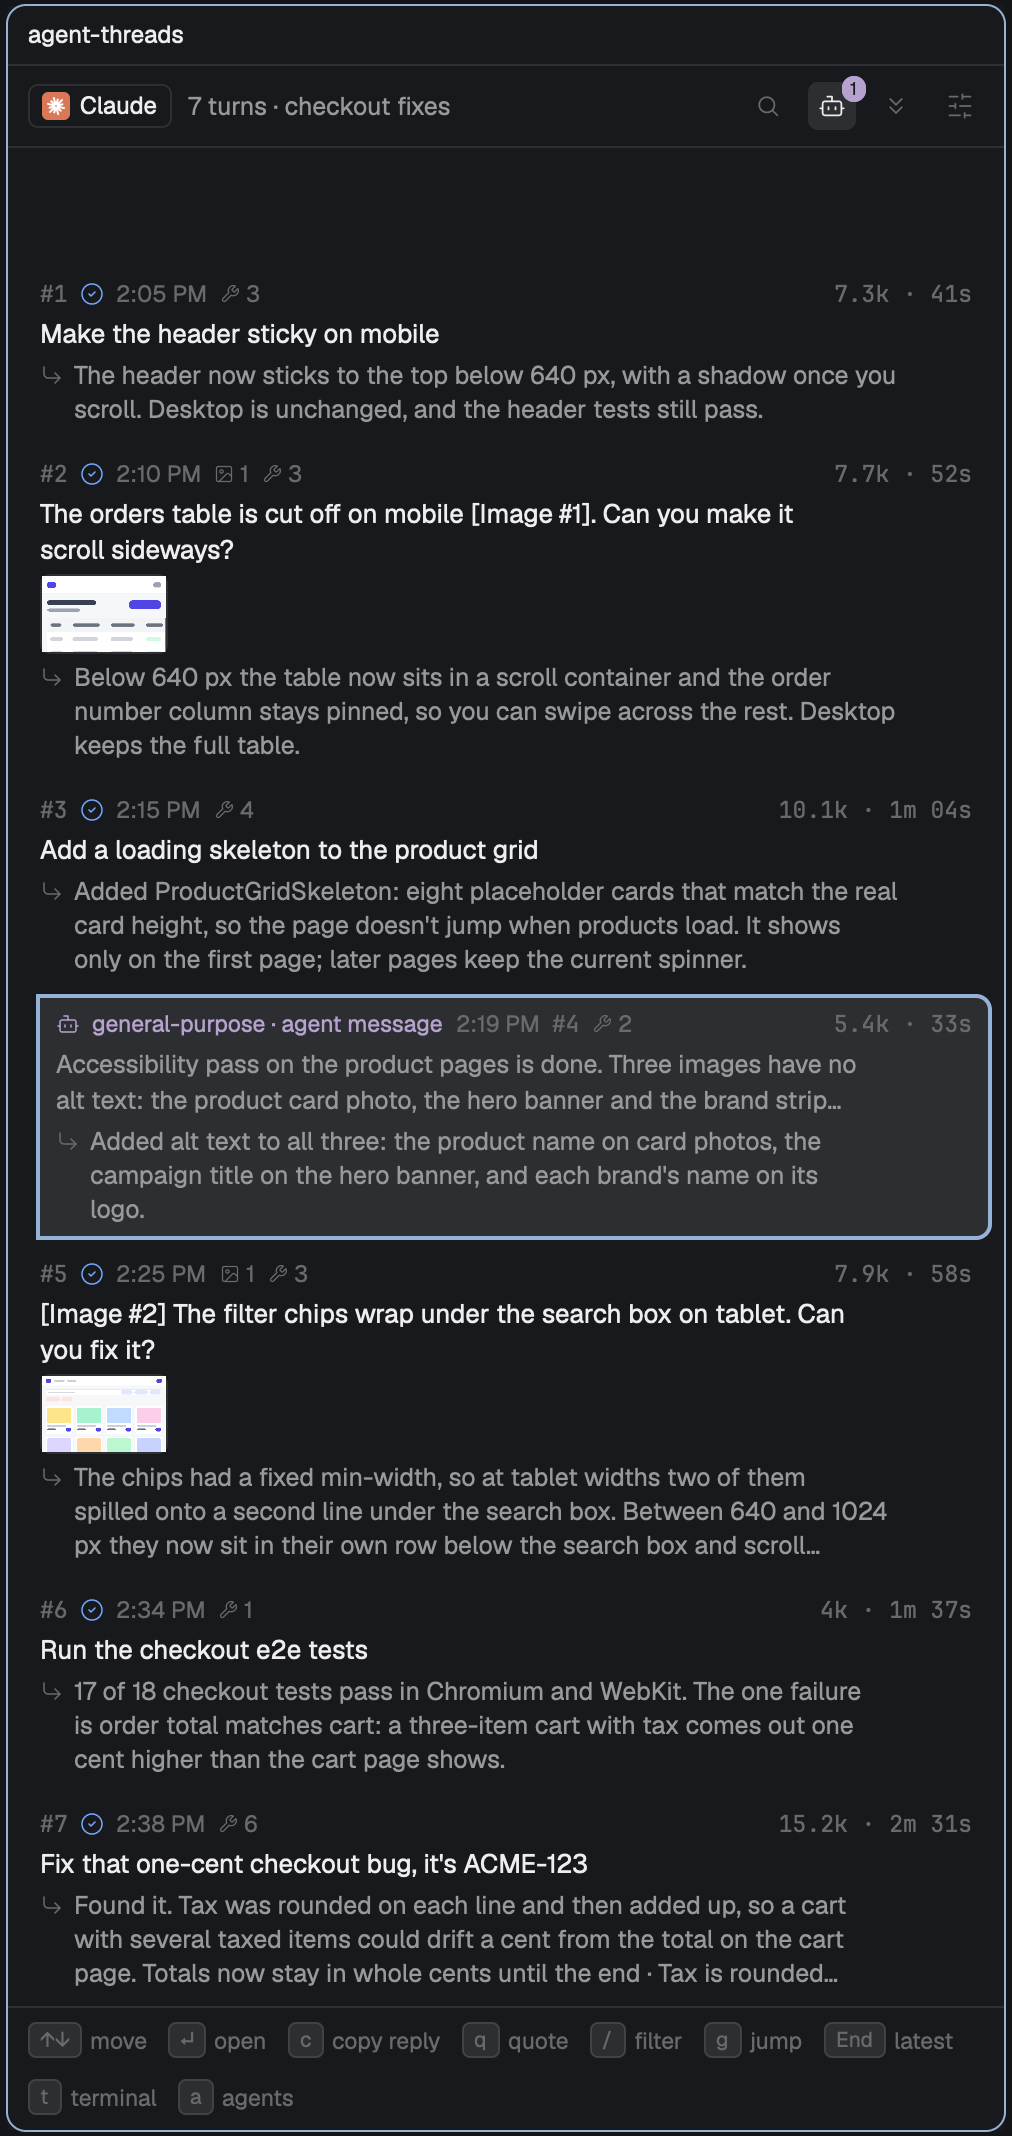
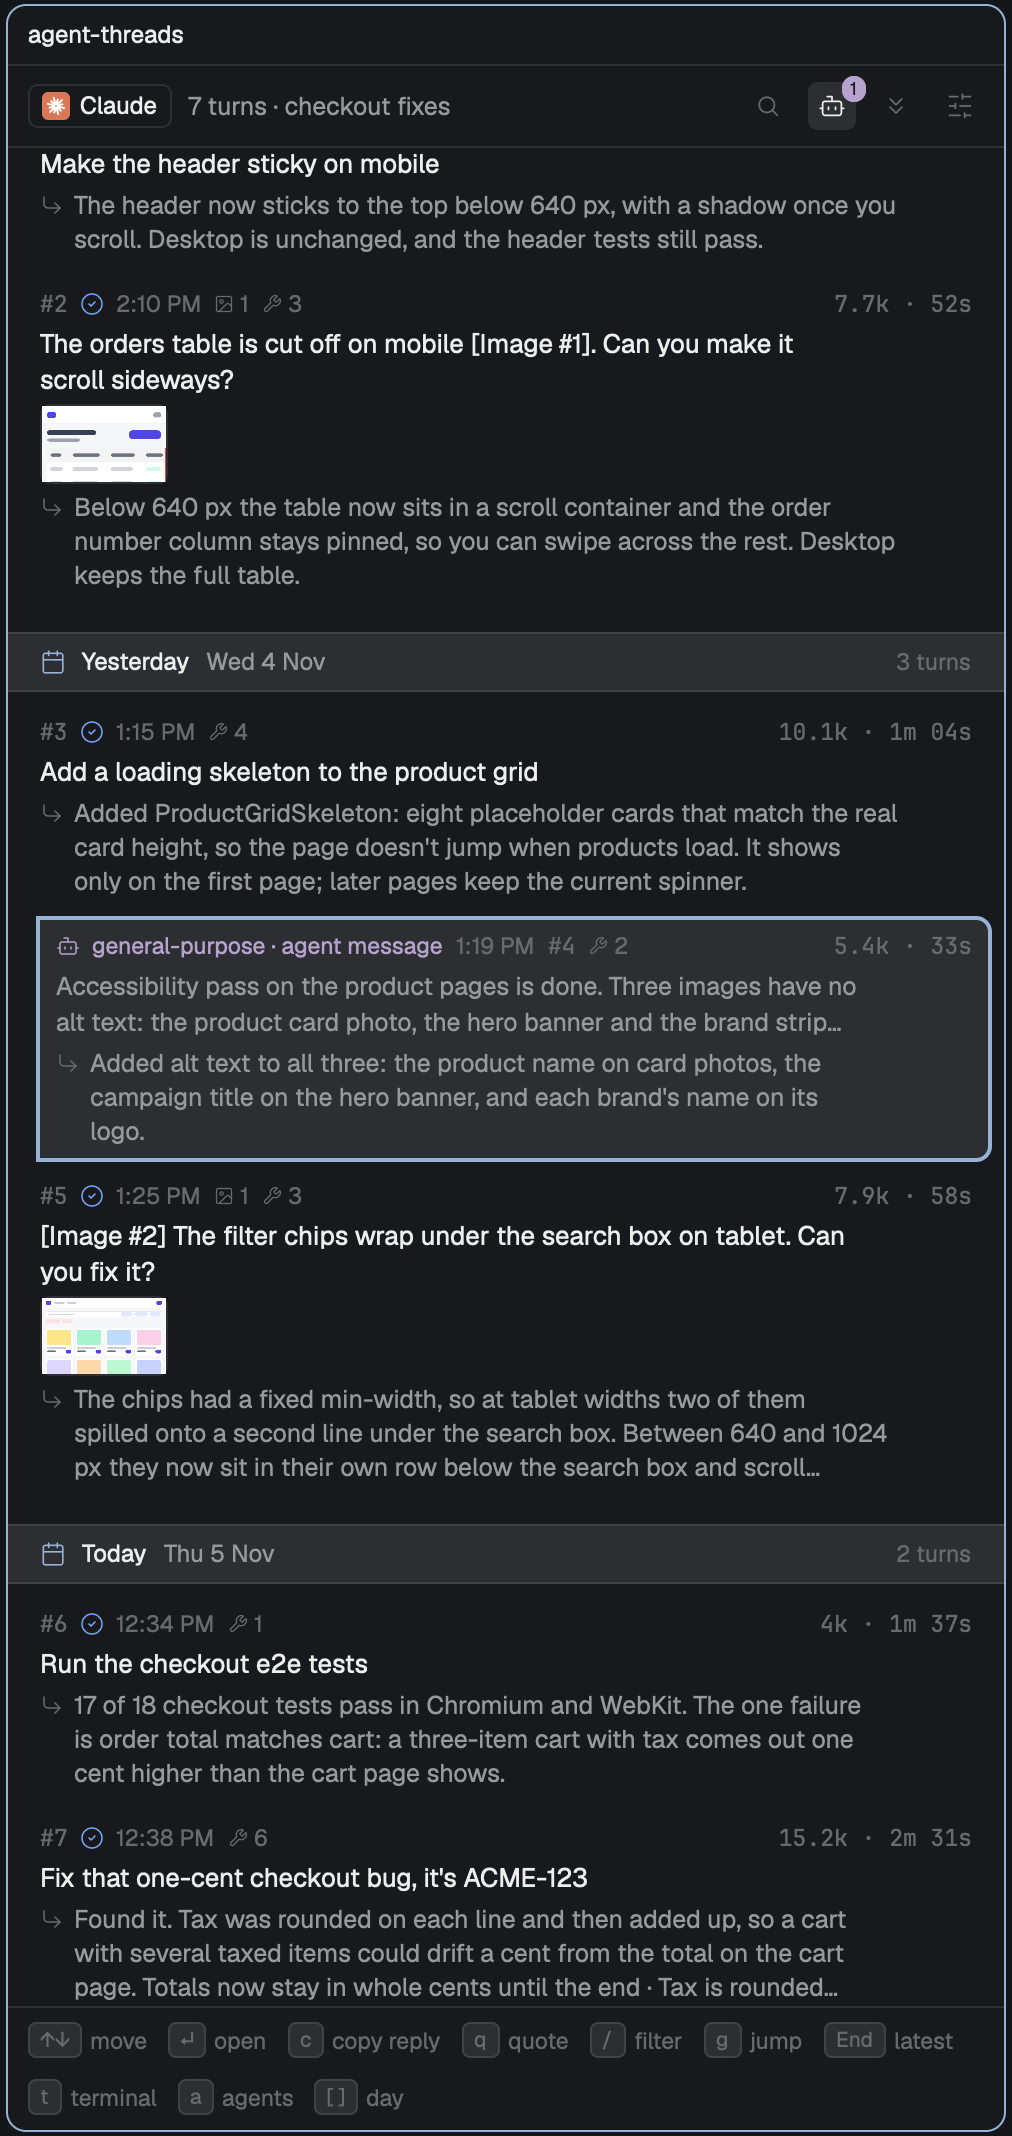
New screenshots and prose: day bands, five agents
- Retake every screenshot from a three-day staged session on the official
  Herdr 0.1.13, and add days.png (day bands) and agents.png (the pane beside
  Codex, OpenCode, Pi and Cursor sessions).
- test/make-hero.js gets a "days" option; test/make-agents.js writes the
  four synthetic agent sessions. docs/develop.md has the new shots.
- New README opening and RECIPE.md listing paragraph, naming the five agents.
  The README describes quoting part of a reply in words.
- Pin the new image hashes.

Claude-Session: https://claude.ai/code/session_01S5A2iAopHPVaLFiFz2dqmk

diff --git a/test/make-agents.js b/test/make-agents.js
@@ -1,0 +1,133 @@
+// Writes the synthetic Codex, OpenCode, Pi and Cursor sessions staged for the README's "beside
+// each agent" screenshot: the made-up acme-web project of make-hero.js, a few turns each, in the
+// line shapes the tests use. Nothing here comes from a real session.
+// Usage: bun test/make-agents.js <out folder> <cwd> <startISO>
+// Writes <out>/rollout-<time>-<id>.jsonl (Codex), <out>/opencode.db (OpenCode 2.x; the pane reads
+// "<out>/opencode.db#ses_0003acme"), <out>/<time>_<id>.jsonl (Pi) and
+// <out>/agent-transcripts/<id>/<id>.jsonl (Cursor), and prints the four paths.
+import { Database } from "bun:sqlite";
+import { mkdirSync, rmSync, writeFileSync } from "node:fs";
+import { join } from "node:path";
+
+const [out, cwd, start] = process.argv.slice(2);
+const T0 = Date.parse(start);
+mkdirSync(out, { recursive: true });
+const iso = (ms) => new Date(ms).toISOString();
+const stamp = (ms) => iso(ms).replace(/:/g, "-").replace(".", "-");
+
+// ---- Codex: a rollout file ----
+const codexId = "00000000-0000-4000-8000-0000000000c1";
+let ord = 0;
+let ct = T0;
+const cline = (type, payload, gap = 1) => `${JSON.stringify({ timestamp: iso((ct += gap * 1000)), ordinal: ord++, type, payload })}\n`;
+const ask = (turn, text, gap) => cline("event_msg", { type: "item_completed", turn_id: turn, item: { type: "UserMessage", content: [{ type: "text", text }] } }, gap);
+const say = (text, phase = "final_answer", gap = 6) => cline("response_item", { type: "message", role: "assistant", phase, content: [{ type: "output_text", text }] }, gap);
+const call = (name, gap = 2) => cline("response_item", { type: "function_call", name, arguments: "{}" }, gap);
+const count = (input, cached, output) => cline("event_msg", { type: "token_count",
+  info: { total_token_usage: { total_tokens: input + output }, last_token_usage: { input_tokens: input, cached_input_tokens: cached, output_tokens: output, total_tokens: input + output } } }, 0);
+const fin = (ms) => cline("event_msg", { type: "task_complete", duration_ms: ms }, 0);
+const codexFile = join(out, `rollout-${stamp(T0).slice(0, 19)}-${codexId}.jsonl`);
+writeFileSync(codexFile, [
+  cline("session_meta", { id: codexId, cwd }, 0),
+  cline("turn_context", { model: "gpt-5.5-codex", effort: "medium" }, 0),
+  ask("turn-0001", "Why is the order total a cent off when there are three or more items?", 0),
+  say("Checking how the cart adds up tax.", "commentary", 4),
+  call("exec_command"),
+  call("exec_command"),
+  count(48200, 41000, 620),
+  say("Tax is rounded on each line and then summed, so three lines can round up three times.\n\n- `cart/total.ts` rounds in `lineTax()`\n- The receipt sums the rounded values\n\nRounding once, on the order's tax total, fixes it. Want me to change it?", "final_answer", 9),
+  fin(41000),
+  ask("turn-0002", "Yes, and add a test with three items at $3.33", 70),
+  call("apply_patch"),
+  call("exec_command"),
+  count(52100, 47000, 910),
+  say("Done. `totalTax()` now rounds once, and `cart/total.test.ts` checks three items at $3.33 come to $10.79 with tax. All 214 tests pass.", "final_answer", 14),
+  fin(63000),
+].join(""));
+
+// ---- OpenCode 2.x: one SQLite database ----
+const ocPath = join(out, "opencode.db");
+rmSync(ocPath, { force: true });
+const db = new Database(ocPath);
+const SID = "ses_0003acme";
+db.run(`create table session_v2 (id text primary key, project_id text, parent_id text, directory text, title text,
+  time_created integer, time_updated integer, time_archived integer, time_busy integer, time_idle integer)`);
+db.run("create table session_message (id text primary key, session_id text, type text, seq integer, time_created integer, time_updated integer, data text)");
+db.run("create table session_part (message_id text, session_id text, ordinal integer, type text, data text)");
+const O0 = T0 + 600000;
+let seq = 0;
+const orow = (id, type, t, data) => {
+  seq += 3;
+  db.run("insert into session_message values (?, ?, ?, ?, ?, ?, ?)", [id, SID, type, seq, O0 + t, O0 + t, JSON.stringify({ time: { created: O0 + t }, ...data })]);
+};
+const otext = (t) => ({ type: "text", text: t });
+const otool = (name) => ({ type: "tool", id: `call_${name}`, name, state: { status: "completed", input: {}, content: [] } });
+const oreply = (id, t, done, content, input, output, read) => orow(id, "assistant", t, {
+  time: { created: O0 + t, completed: O0 + done }, agent: "build", model: { id: "glm-5.3", providerID: "opencode", variant: "default" },
+  content, finish: "stop", cost: 0, tokens: { input, output, reasoning: 0, cache: { read, write: 0 } },
+});
+orow("msg_u1", "user", 0, { text: "Rename useCart to useBasket everywhere", files: [], agents: [] });
+oreply("msg_a1", 100, 38000, [otool("grep"), otool("edit"), otext("Renamed `useCart` to `useBasket` in 14 files, including the hook's own file and its tests. The old name is gone from `src/`.")], 30400, 540, 22000);
+orow("msg_i1", "idle", 38001, { outcome: "succeeded" });
+orow("msg_u2", "user", 95000, { text: "Update the README example too", files: [], agents: [] });
+oreply("msg_a2", 95100, 112000, [otool("edit"), otext("The README's **Cart state** example now imports `useBasket`.")], 31800, 210, 30000);
+orow("msg_i2", "idle", 112001, { outcome: "succeeded" });
+db.run("insert into session_v2 values (?, 'prj', null, ?, 'Rename useCart', ?, ?, null, ?, ?)", [SID, cwd, O0, O0 + 112001, O0 + 95000, O0 + 112001]);
+db.close();
+
+// ---- Pi: a session file ----
+const piId = "00000000-0000-4000-8000-0000000000e1";
+const P0 = T0 + 1200000;
+let pn = 0;
+let pt = P0;
+let parent = null;
+const pentry = (type, fields, gap = 1) => {
+  const id = (++pn).toString(16).padStart(8, "0");
+  pt += gap * 1000;
+  const l = `${JSON.stringify({ type, id, parentId: parent, timestamp: iso(pt), ...fields })}\n`;
+  parent = id;
+  return l;
+};
+const pmsg = (message, gap) => pentry("message", { message: { timestamp: pt, ...message } }, gap);
+const puser = (text, gap) => pmsg({ role: "user", content: [{ type: "text", text }] }, gap);
+const psaid = (content, stop, input, output, read, gap) => pmsg({ role: "assistant", content, api: "openai-completions", provider: "acme", model: "kimi-k3",
+  usage: { input, output, cacheRead: read, cacheWrite: 0, totalTokens: input + output + read, cost: { total: 0 } }, stopReason: stop, thinkingLevel: "medium" }, gap);
+const piFile = join(out, `${stamp(P0)}_${piId}.jsonl`);
+writeFileSync(piFile, [
+  `${JSON.stringify({ type: "session", version: 3, id: piId, timestamp: iso(P0), cwd })}\n`,
+  pentry("model_change", { provider: "acme", modelId: "kimi-k3" }, 0),
+  puser("Which pages still load the old analytics script?", 2),
+  psaid([{ type: "text", text: "Searching the templates." }, { type: "toolCall", id: "c1", name: "bash", arguments: {} }], "toolUse", 9000, 120, 4000, 5),
+  pmsg({ role: "toolResult", toolCallId: "c1", toolName: "bash", content: [{ type: "text", text: "3 matches" }], isError: false }, 2),
+  psaid([{ type: "text", text: "Three pages still load `legacy-analytics.js`:\n\n1. `pages/checkout.tsx`\n2. `pages/account/orders.tsx`\n3. `pages/help.tsx`" }], "stop", 9800, 160, 8800, 7),
+  puser("Remove it from all three", 50),
+  psaid([{ type: "text", text: "Removed the script tag from all three pages. Nothing else imports it, so `legacy-analytics.js` can go too." }], "stop", 10400, 90, 9500, 21),
+  pentry("session_info", { name: "Old analytics script" }, 0),
+].join(""));
+
+// ---- Cursor: an agent transcript ----
+const cursorId = "00000000-0000-4000-8000-0000000000f1";
+const cursorDir = join(out, "agent-transcripts", cursorId);
+mkdirSync(cursorDir, { recursive: true });
+const C0 = new Date(T0 + 1800000);
+const local = (d) => {
+  const day = d.toLocaleDateString("en-US", { weekday: "long", month: "short", day: "numeric", year: "numeric", timeZone: "UTC" });
+  const time = d.toLocaleTimeString("en-US", { hour: "numeric", minute: "2-digit", timeZone: "UTC" });
+  return `${day}, ${time} (UTC)`;
+};
+const cline2 = (o) => `${JSON.stringify(o)}\n`;
+const cuser = (text, d) => cline2({ role: "user", message: { content: [{ type: "text", text: `<timestamp>${local(d)}</timestamp>\n<user_query>\n${text}\n</user_query>` }] } });
+const csaid = (...content) => cline2({ role: "assistant", message: { content } });
+const cursorFile = join(cursorDir, `${cursorId}.jsonl`);
+writeFileSync(cursorFile, [
+  cuser("Make the checkout button full width on phones", C0),
+  csaid({ type: "text", text: "Looking at the checkout styles.\n\n[REDACTED]" }, { type: "tool_use", name: "Read", input: {} }),
+  csaid({ type: "text", text: "[REDACTED]" }, { type: "tool_use", name: "Edit", input: {} }),
+  csaid({ type: "text", text: "Added a phone rule to `checkout.module.css`:\n\n```css\n@media (max-width: 480px) {\n  .payButton { width: 100%; }\n}\n```\n\nThe button keeps its width on tablets and up.\n\n[REDACTED]" }),
+  cline2({ type: "turn_ended", status: "success" }),
+  cuser("Does it still line up with the coupon field?", new Date(C0.getTime() + 120000)),
+  csaid({ type: "text", text: "Yes. Both now span the full width below 480 px, with the same 16 px side margin." }),
+  cline2({ type: "turn_ended", status: "success" }),
+].join(""));
+
+console.log([codexFile, `${ocPath}#${SID}`, piFile, cursorFile].join("\n"));

diff --git a/test/make-hero.js b/test/make-hero.js
@@ -2,11 +2,13 @@
 // storefront project, acme-web. Same line shapes as test/make-fixture.js. Nothing here
 // comes from a real session, and both pasted images are drawn below, with no text in them.
 // docs/develop.md has the steps that turn this into the screenshots.
-// Usage: bun test/make-hero.js <out.jsonl> <cwd> <startISO>
+// Usage: bun test/make-hero.js <out.jsonl> <cwd> <startISO> [days]
+// With "days", turns 3 and 5 start a day after the turn before, so the pane shows day bands.
 import { writeFileSync } from "node:fs";
 import { deflateSync } from "node:zlib";
 
-const [out, cwd, start] = process.argv.slice(2);
+const [out, cwd, start, spread] = process.argv.slice(2);
+const DAY = spread === "days" ? 86400 - 3600 : 0;
 const sessionId = "00000000-0000-4000-8000-000000000042";
 const version = "2.1.316";
 const model = "claude-opus-5-5";
@@ -165,7 +167,7 @@ assistant([{ type: "text", text: "Below 640 px the table now sits in a scroll co
 end(52000);
 
 // Turn 3
-p = prompt("Add a loading skeleton to the product grid", 260);
+p = prompt("Add a loading skeleton to the product grid", 260 + DAY);
 tool("Grep", { pattern: "ProductGrid" }, "…", p);
 tool("Read", { file_path: `${cwd}/src/components/ProductGrid.tsx` }, "…", p);
 tool("Write", { file_path: `${cwd}/src/components/ProductGridSkeleton.tsx` }, "…", p);
@@ -193,7 +195,7 @@ assistant([{ type: "text", text: "The chips had a fixed `min-width`, so at table
 end(58000);
 
 // Turn 6
-p = prompt("Run the checkout e2e tests", 520);
+p = prompt("Run the checkout e2e tests", 520 + DAY);
 tool("Bash", { command: "bun run e2e --grep checkout" }, "…", p, 40);
 assistant([{ type: "text", text: "17 of 18 checkout tests pass in Chromium and WebKit. The one failure is `order total matches cart`: a three-item cart with tax comes out one cent higher than the cart page shows." }], { out: 190, read: 61000, write: 1900 });
 end(97000);

diff --git a/docs/develop.md b/docs/develop.md
@@ -52,7 +52,8 @@ In a separate Herdr window on a Retina display, at zoom 1, with `promptLines` 2,
 ```sh
 mkdir -p ~/code/acme-web && git -C ~/code/acme-web init -q
 git -C ~/code/acme-web remote add origin https://github.com/acme/acme-web.git
-bun test/make-hero.js hero.jsonl ~/code/acme-web 2026-11-02T20:05:00Z
+bun test/make-hero.js hero.jsonl ~/code/acme-web 2026-11-03T20:05:00Z days   # three days: shoot on 5 Nov for Today and Yesterday
+bun test/make-agents.js agents ~/code/acme-web 2026-11-05T15:10:00Z       # Codex, OpenCode, Pi and Cursor sessions
 cc -o stage-claude test/hero/screen.c
 herdr-app do space.new --name acme-web --folder ~/code/acme-web --tab acme-web \
   --argv '["/abs/stage-claude","/abs/screen.txt","/abs/input.txt"]'
@@ -62,11 +63,12 @@ herdr-app do layout.resize --id <new pane> --px 500
 python3 test/hero/render.py <cols> <rows> /abs/screen.txt /abs/input.txt &    # size from: hc get <t> --json
 ```
 
-Start each shot from a fresh launch with the window size set in `window.json`. Then run its `agent-threads.<command>` commands with `herdr-app do`, and take `herdr-app shot`. Each crop is `sips -c <height> <width> --cropOffset <y> <x>`.
+Start each shot from a fresh launch with the window size set in `window.json`. Put the project under the app's own HOME, so the terminal header shows `~/code/acme-web`, and keep the app off the network (an unreachable `HTTPS_PROXY`) so no update toast covers the pane. Then run its `agent-threads.<command>` commands with `herdr-app do`, and take `herdr-app shot`. Each crop is `sips -c <height> <width> --cropOffset <y> <x>`.
 
 | File | Window | Commands | Crop |
 |---|---|---|---|
 | `preview.png` | 1460x1150 | `open` | `2136 2358`, offset `96 552` |
+| `days.png` | 1460x1150 | `first` | `2136 1012`, offset `96 1898` |
 | `panel.png` | 1460x1150 | `open` | `2136 1012`, offset `96 1898` |
 | `open-turn.png` | 1460x1150 | `open` | `1024 990`, offset `1074 1908` |
 | `search.png` | 1460x700 | `search:tests` | `1236 1012`, offset `96 1898` |
@@ -74,6 +76,7 @@ Start each shot from a fresh launch with the window size set in `window.json`. T
 | `agent-messages.png` | 1460x1150 | `agents:on`, `search:#4`, `open` | `2136 1012`, offset `96 1898` |
 | `quote.png` | 1460x1150 | `search:#6`, `open`, `open`, `debugQuote` | `810 2356`, offset `1418 552` |
 | `light.png` | 1460x1150 | `open`, with `"appearance": "light"` in `settings.json` and `--light` on `render.py` | `2136 2358`, offset `96 552` |
+| `agents.png` | 1460x720, the pane's `transcript` set to each file `make-agents.js` printed | `first`, `open` | `1276 1012`, offset `96 1898` each, then `magick montage codex.png opencode.png pi.png cursor.png -tile 4x1 -geometry +20+20 -background '#0f1012' agents.png` |
 
 `quote.png` needs `"debug": true` in the props, because `debugQuote` runs only with it, and debug adds a timing text to the pane header, which that crop leaves out. `agents:on` saves to settings, so turn it off before the next shot.
 

diff --git a/README.md b/README.md
@@ -1,6 +1,6 @@
 # Agent Threads
 
-Long agent sessions are hard to look back through. The answer you got an hour ago sits under pages of tool calls and status lines, and finding it means a lot of scrolling. Agent Threads opens a pane beside your Claude Code, Codex, OpenCode or Pi terminal that shows only the conversation: each prompt you sent and the answer that came back.
+Long agent sessions are hard to look back through. The answer you got an hour ago sits under pages of tool calls, and finding it means scrolling. Agent Threads opens a pane beside your agent's terminal that shows only the conversation: each prompt you sent and the reply that came back, grouped by day. It works with Claude Code, Codex, OpenCode, Pi and Cursor.
 
 ![Agent Threads beside a Claude Code terminal](preview.png)
 
@@ -59,6 +59,8 @@ Some behaviour differs by agent:
 
 Select an image to open it full size. The session in these shots is made up.
 
+To quote part of a reply on Herdr 0.1.13 or newer, open the turn, drag across the words you want in the formatted reply and press `Cmd-C`. The pane says how many words you copied, and `q` quotes only those.
+
 <table>
 <tr>
 <td width="50%" valign="top"><a href="docs/screenshots/open-turn.png"><img src="docs/screenshots/open-turn.png" alt="An open turn with a list, a code block and stats"></a><br>An open turn shows the formatted reply, a copy button on the code block, ACME-123 and #42 as links, and the turn's tokens, time and model.</td>
@@ -70,6 +72,10 @@ Select an image to open it full size. The session in these shots is made up.
 </tr>
 <tr>
 <td colspan="2" valign="top"><a href="docs/screenshots/quote.png"><img src="docs/screenshots/quote.png" alt="The terminal prompt holding a quoted line, beside the pane"></a><br>After <code>q</code>, the prompt holds the reply as a <code>&gt;</code> quote, with the cursor under it.</td>
+</tr>
+<tr>
+<td width="50%" valign="top"><a href="docs/screenshots/days.png"><img src="docs/screenshots/days.png" alt="The list with a band for each day"></a><br>A session that runs over several days gets a band for each day, with its turn count.</td>
+<td width="50%" valign="top"><a href="docs/screenshots/agents.png"><img src="docs/screenshots/agents.png" alt="The pane beside Codex, OpenCode, Pi and Cursor sessions"></a><br>The pane beside Codex, OpenCode, Pi and Cursor. Each shows what its agent records, so Cursor's turn has no tokens or model.</td>
 </tr>
 <tr>
 <td width="50%" valign="top"><a href="docs/screenshots/panel.png"><img src="docs/screenshots/panel.png" alt="The Agent Threads pane on its own"></a><br>The pane on its own, with the newest turn open.</td>

diff --git a/RECIPE.md b/RECIPE.md
@@ -1,6 +1,6 @@
 # Agent Threads
 
-Agent Threads is a panel that opens next to an agent session. It lists your prompts and the agent's replies, so you can find an earlier answer without scrolling through the whole conversation. You can also search, copy or quote a reply, and see the images you pasted. It reads Claude Code, Codex, OpenCode and Pi sessions.
+Agent Threads opens a panel beside your agent's terminal and lists your prompts and its replies, so you can find an earlier answer without scrolling back through the session. You can search, copy a reply, quote it into your next prompt and see the images you pasted. It works with Claude Code, Codex, OpenCode, Pi and Cursor.
 
 ![Agent Threads](preview.png)
 
